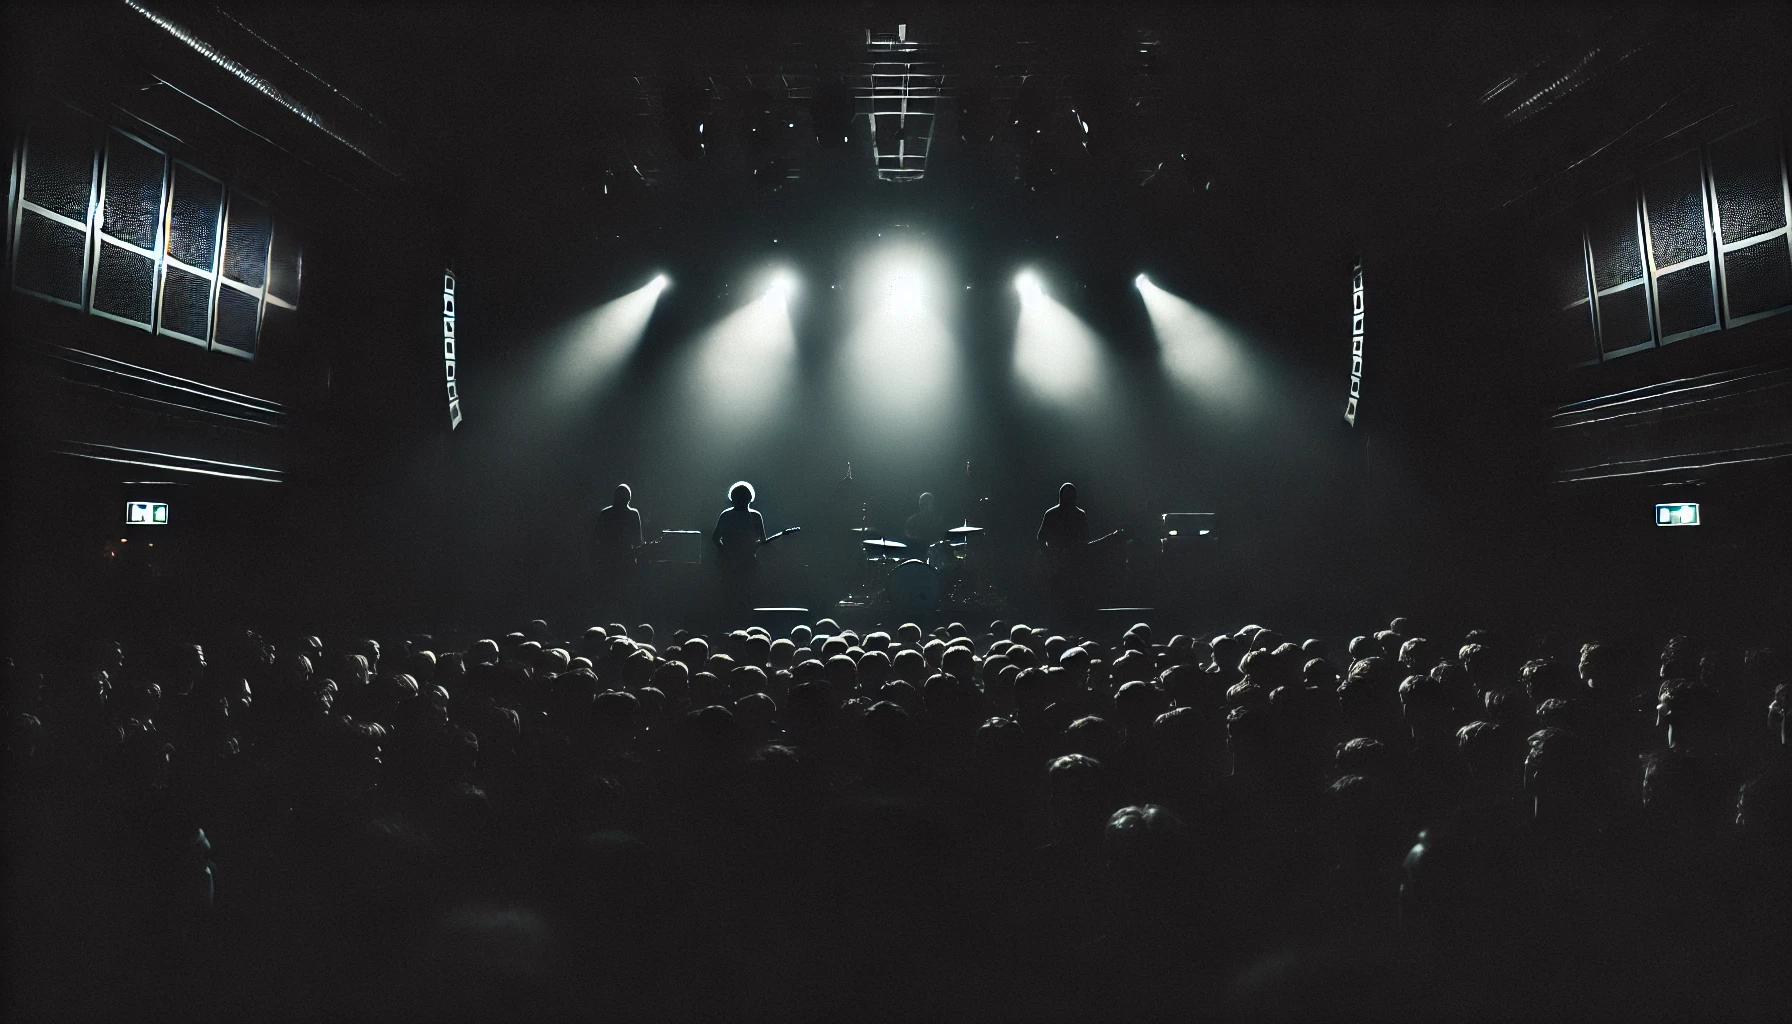
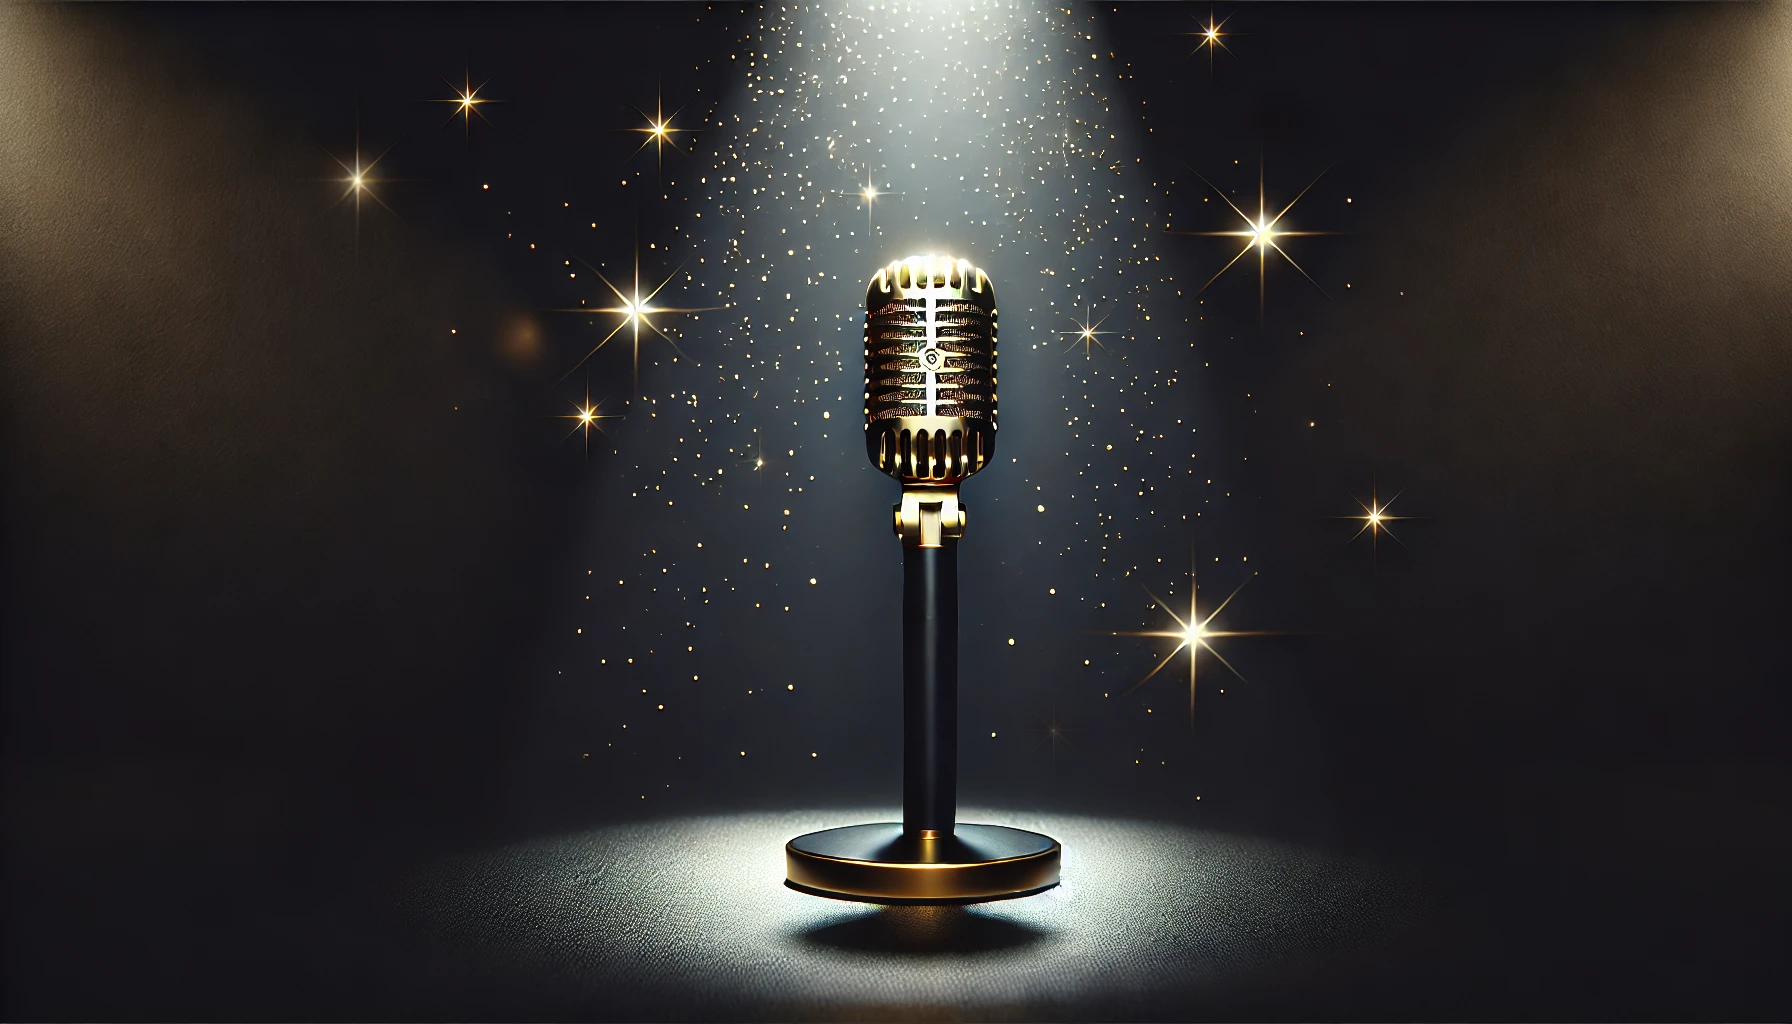
Semaine 3(modifications finales)

diff --git a/app/evenement2/page.module.css b/app/evenement2/page.module.css
@@ -1,5 +1,5 @@
 .background {
-  background-image: url('/concertt.png');
+  background-image: url('/concert.png');
   background-size: cover;
   background-position: center;
   background-repeat: no-repeat;
